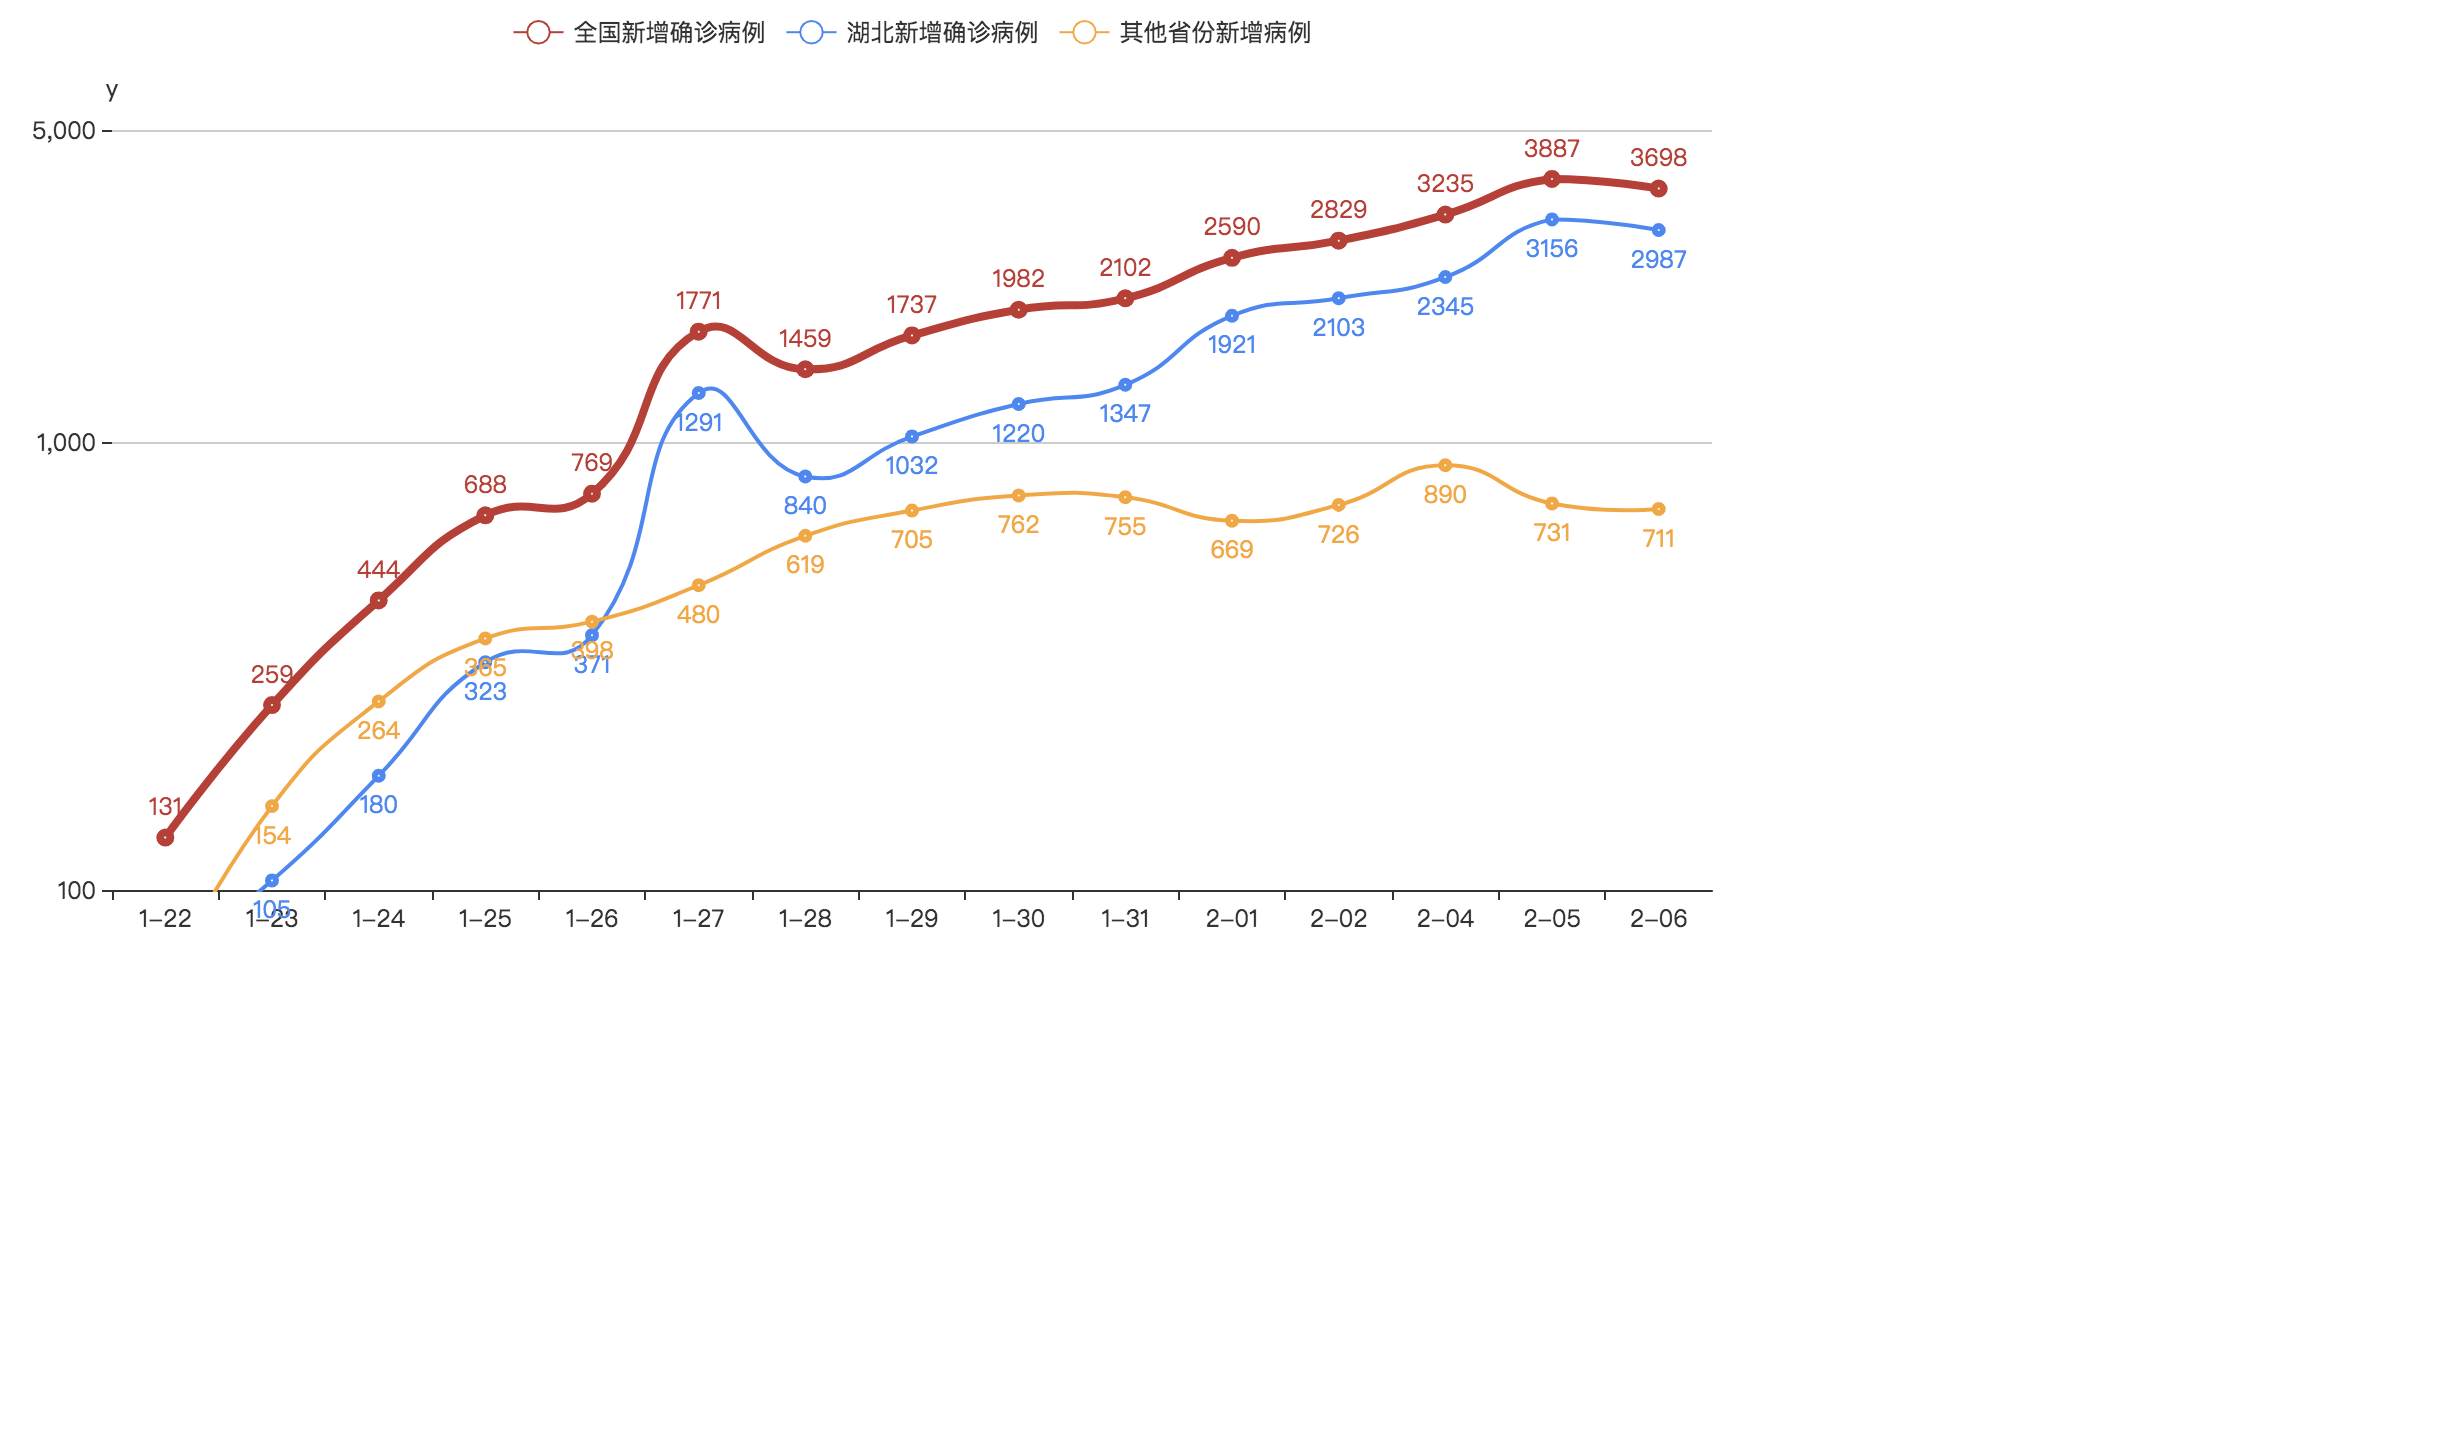
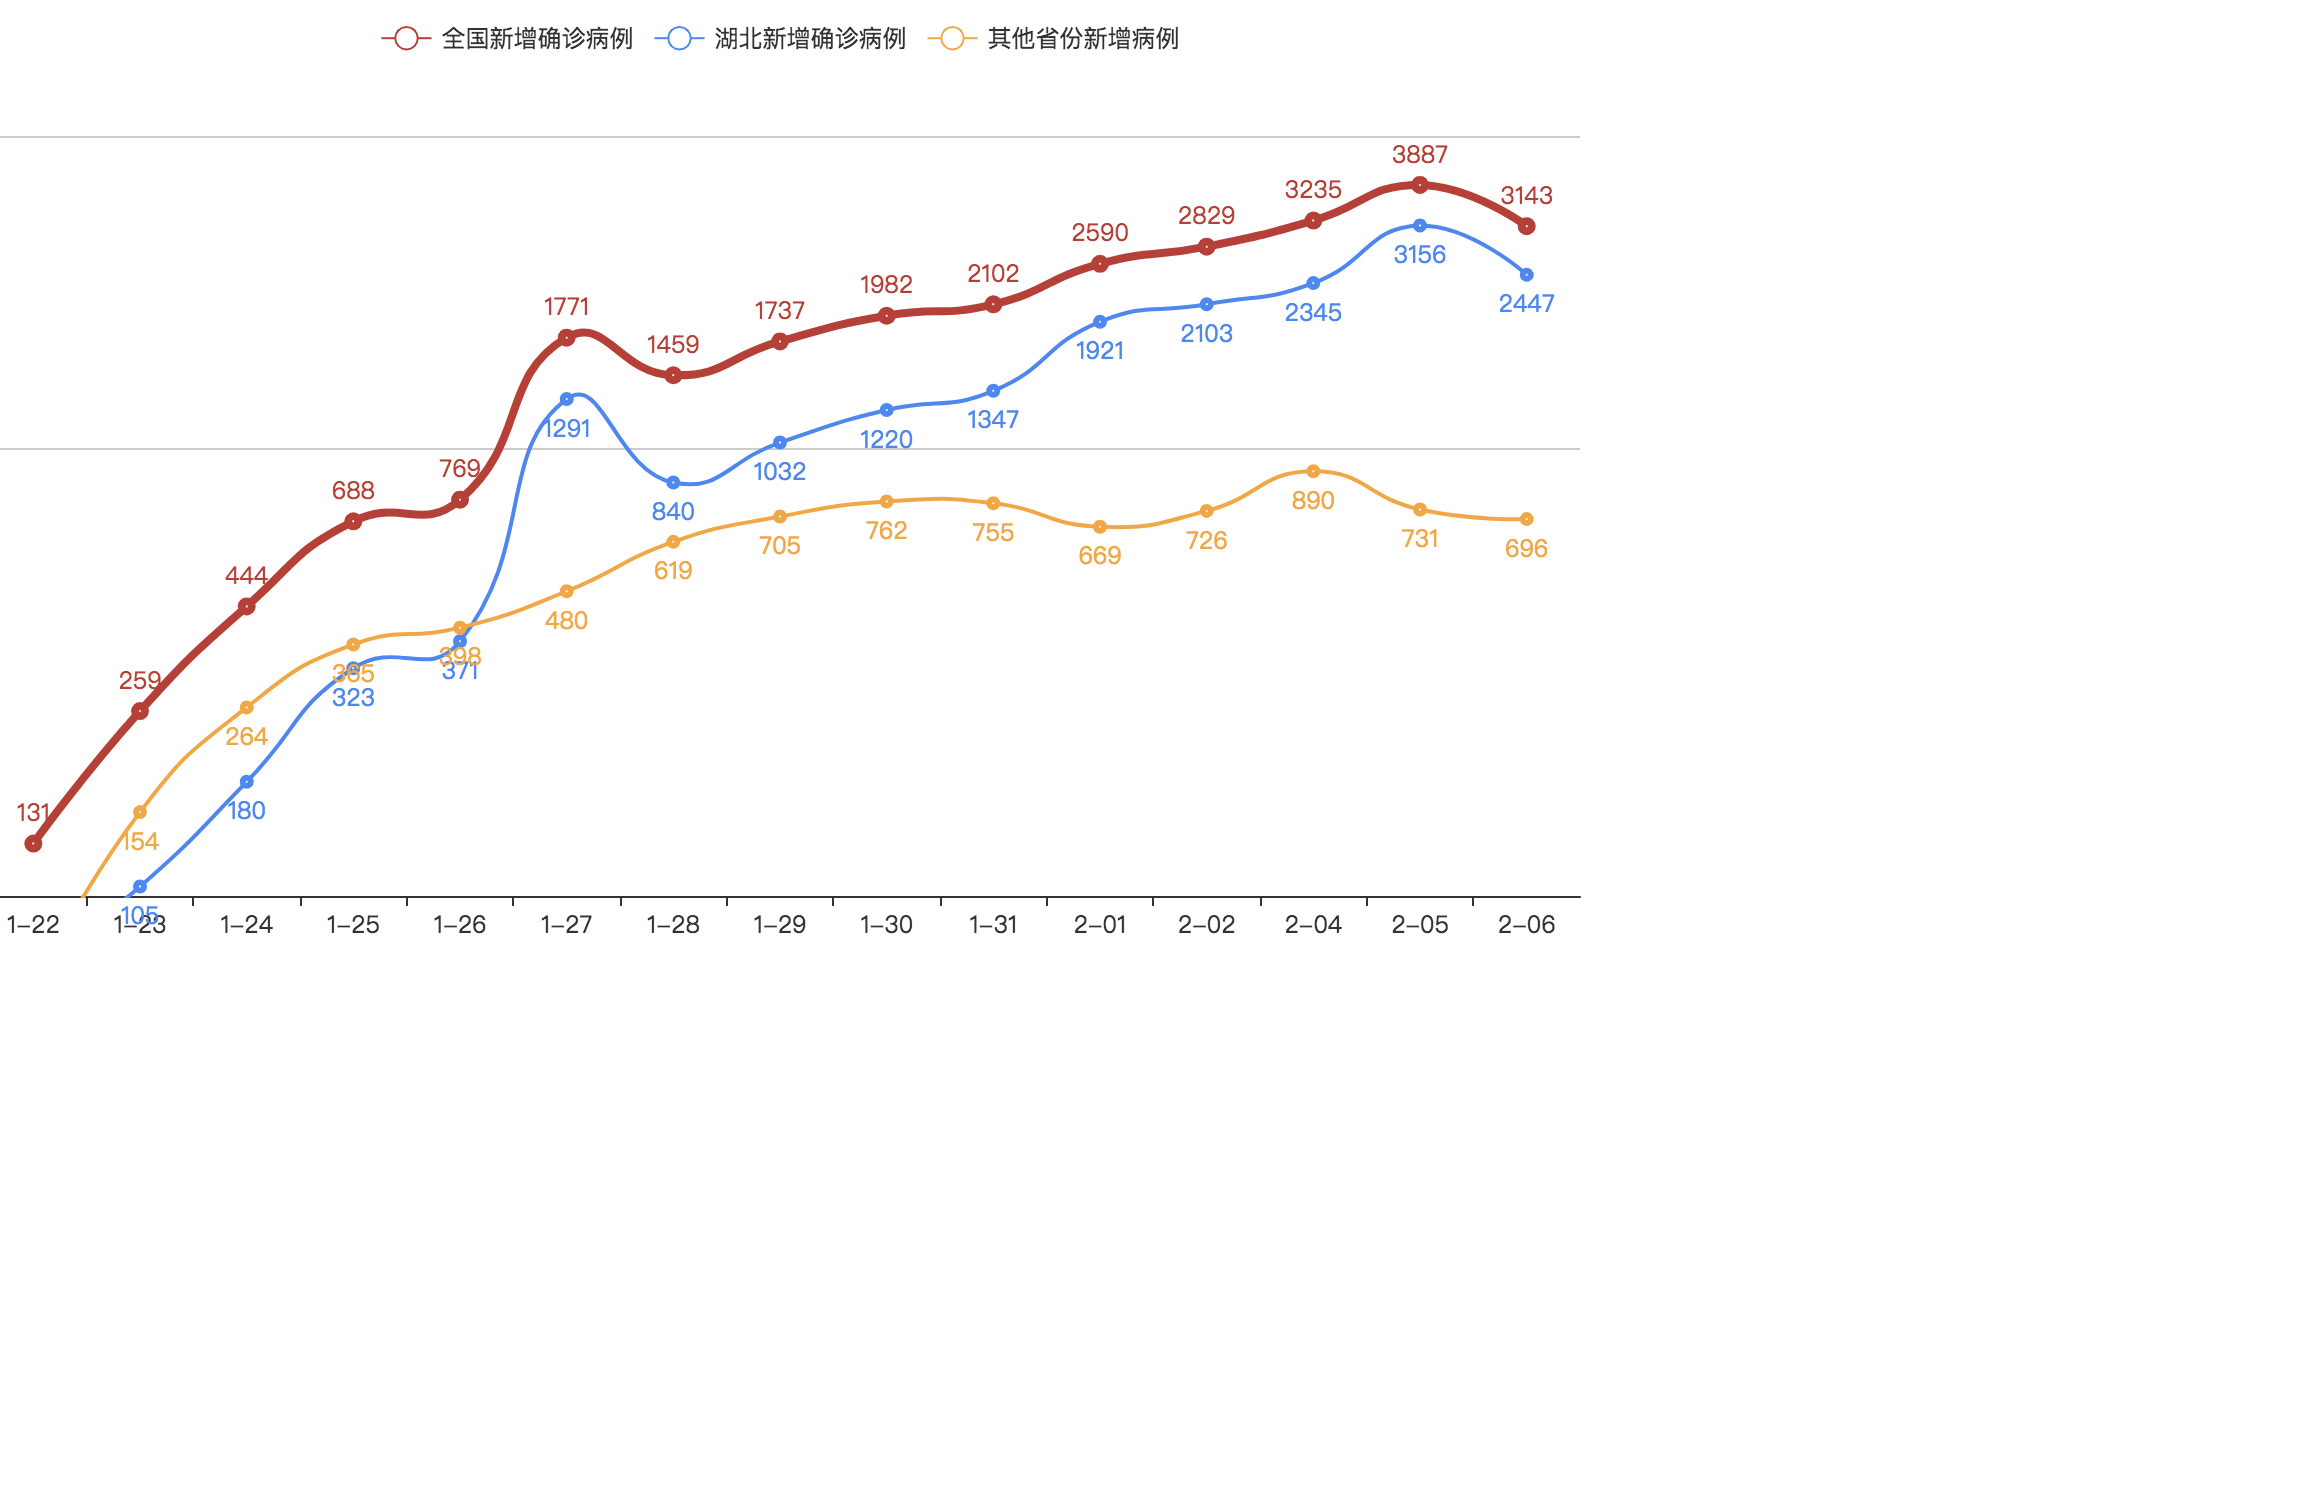
update result

diff --git a/main.py b/main.py
@@ -93,8 +93,8 @@ def get_html(month, day):
 def draw_tendency(month, day):
     dates = ['1-22', '1-23', '1-24', '1-25', '1-26', '1-27', '1-28',
              '1-29', '1-30', '1-31', '2-01', '2-02', '2-04', '2-05', '2-06']
-    v0 = [131, 259, 444, 688, 769, 1771, 1459, 1737, 1982, 2102, 2590, 2829, 3235, 3887]
-    v1 = [69, 105, 180, 323, 371, 1291, 840, 1032, 1220, 1347, 1921, 2103, 2345, 3156]
+    v0 = [131, 259, 444, 688, 769, 1771, 1459, 1737, 1982, 2102, 2590, 2829, 3235, 3887, 3143]
+    v1 = [69, 105, 180, 323, 371, 1291, 840, 1032, 1220, 1347, 1921, 2103, 2345, 3156, 2447]
     v2 = [v0[i] - v1[i] for i in range(len(v0))]
 
     c = (
@@ -249,8 +249,8 @@ def draw_multiple_pie(month, day):
 
 
 if __name__ == '__main__':
-    m, d = 2, 6
-    get_html(m, d)
-    # draw_tendency(m, d)
+    m, d = 2, 7
+    # get_html(m, d)
+    draw_tendency(m, d)
     # draw_multiple_pie(m, d)
     # draw_multiple_map(m, d)

diff --git a/README.md b/README.md
@@ -10,6 +10,7 @@
 - 更新：2020.2.04 09:02 （1）之前的趋势统计数据有点问题，今天修正了；（2）根据pyecharts提供的城市数据加入了城市映射；（3）省份地图中的颜色是根据整个省份感染人数渲染的，不同省份的相同颜色可能代表不同感染人数范围，这么做是为了在省份地图中凸显当前省份各城市的感染程度，因为如果所有省份统一标准的话，有的省份的大部分城市都会是一个颜色，这样凸显不出有效信息。
 - 更新：2020.2.05 08:39 把代码优化了一下
 - 更新：2020.2.06 08:16 （1）修复了爬数据会不稳定地挂掉的问题；（2）增加get_default_pieces()方法，可以自定义地图中的颜色和感染范围。
+- 更新：2020.2.07 08:34 昨天各个省份的新增病例都减少了！！！！！
 
 # 全国/各省份疫情地图
 ![image](https://github.com/shadow12138/WuHanGanBaDei/blob/master/result/r1.png)
